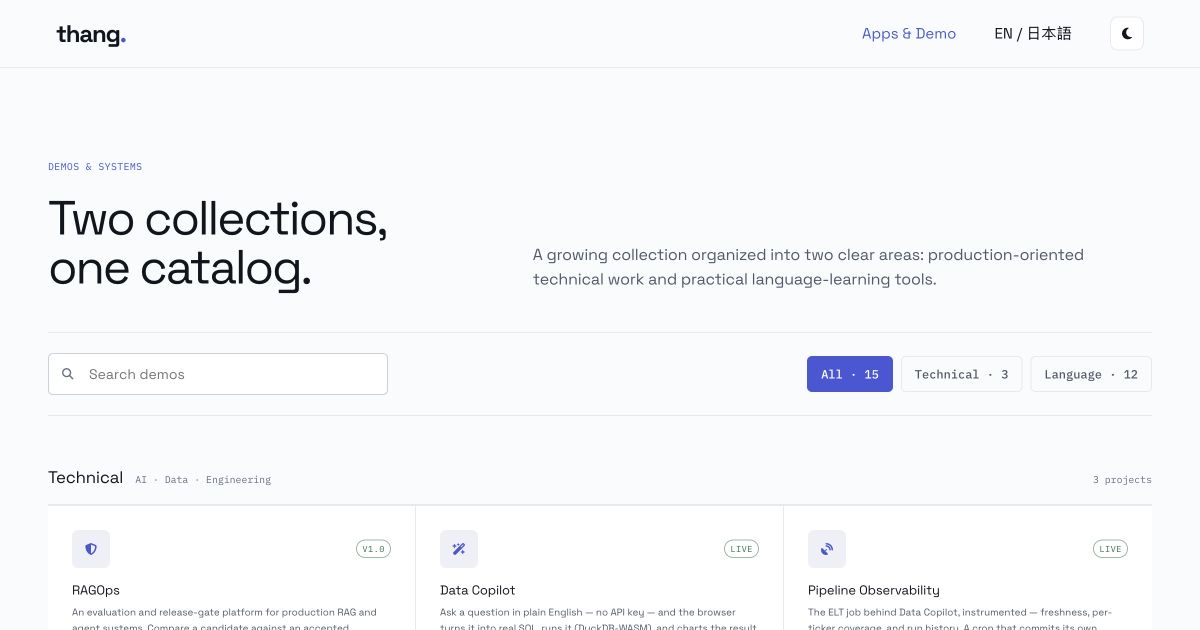
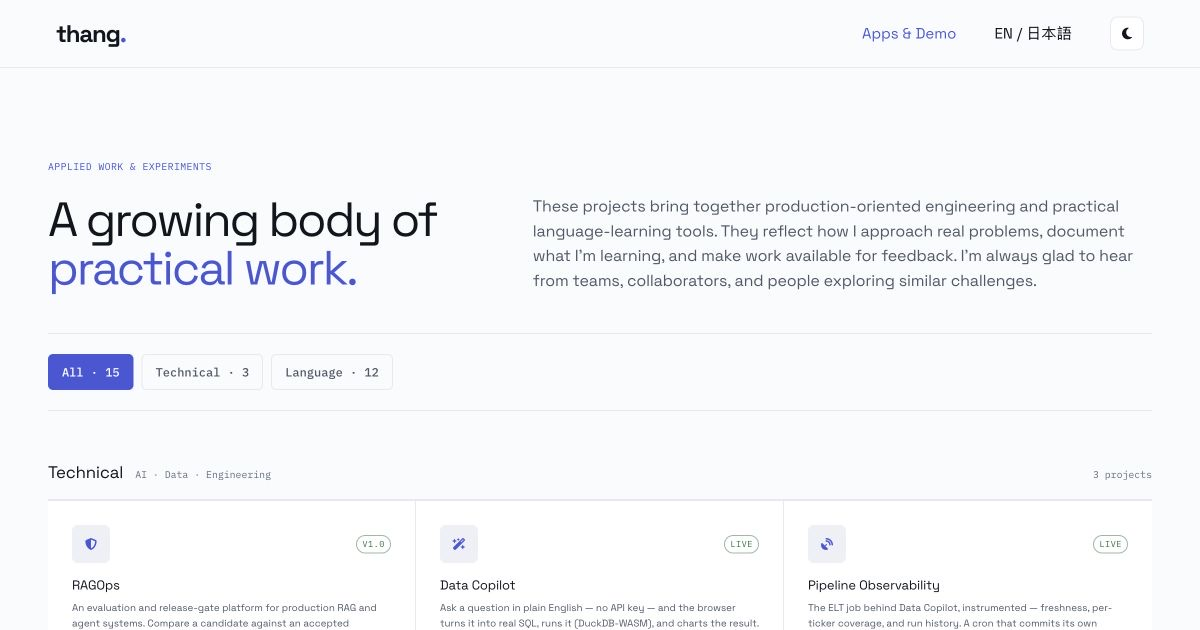
feat(site): refine portfolio narrative and app catalog [skip ci]

diff --git a/apps/index.html b/apps/index.html
@@ -4,11 +4,11 @@
   <meta charset="utf-8">
   <meta name="viewport" content="width=device-width, initial-scale=1.0">
   <title>Apps — thang.</title>
-  <meta name="description" content="Interactive demos and tools by Thang Luu — a browser-native data workbench, JLPT N1 study apps, and more. Each is a small, self-contained build.">
+  <meta name="description" content="A growing body of practical engineering systems and language-learning tools by Thang Luu, shared for feedback, collaboration, and continued learning.">
   <link rel="canonical" href="https://thangldw.github.io/apps/">
   <meta property="og:type" content="website">
   <meta property="og:title" content="Apps — Thang Luu">
-  <meta property="og:description" content="Browser-native data tools and a complete JLPT N1 study suite — 15 self-contained applications.">
+  <meta property="og:description" content="Practical engineering systems and language-learning tools, shared for feedback, collaboration, and continued learning.">
   <meta property="og:url" content="https://thangldw.github.io/apps/">
   <meta property="og:image" content="https://thangldw.github.io/assets/social-apps.jpg">
   <meta name="twitter:card" content="summary_large_image">
@@ -39,7 +39,7 @@
     .apps-main { padding-block: 64px 40px; }
     .apps-intro { max-width: none; margin-bottom: var(--space-xl); }
     .apps-intro .eyebrow { display: inline-flex; align-items: center; gap: .5em; color: var(--text-dim); font-family: var(--font-mono); font-size: var(--step--1); letter-spacing: .04em; text-transform: uppercase; }
-    .apps-intro h1 { font-family: var(--font-display); font-size: var(--step-4); line-height: 1.05; letter-spacing: -.02em; margin-top: var(--space-xs); }
+    .apps-intro h1 { font-family: var(--font-display); font-size: var(--step-4); line-height: 1.05; letter-spacing: -.02em; margin-top: var(--space-xs); }.apps-intro h1 em{color:var(--accent);font-style:normal}
     .apps-intro .lead { color: var(--text-muted); font-size: 13.5px; letter-spacing: -.01em; margin-top: var(--space-sm); white-space: nowrap; }
     .apps-intro .lead strong { color: var(--text); font-weight: 600; }
 
@@ -85,24 +85,23 @@
     .theme-button{display:grid;place-items:center;cursor:pointer}.ac-icon i{font-size:1rem}.sr-only{position:absolute;width:1px;height:1px;padding:0;margin:-1px;overflow:hidden;clip:rect(0,0,0,0);white-space:nowrap;border:0}
     .skip-link{position:fixed;left:12px;top:-60px;z-index:99;background:var(--ink);color:var(--bg);padding:10px}.skip-link:focus{top:12px}
     .wrap{width:min(1328px,calc(100% - 96px))}.apps-main{padding-top:54px}.apps-intro{display:grid;grid-template-columns:minmax(0,.8fr) minmax(360px,1.2fr);gap:72px;align-items:end;margin-bottom:40px}.apps-intro .eyebrow{grid-column:1/-1;margin-bottom:-52px}.apps-intro h1{font-size:clamp(42px,4vw,58px);line-height:1.02;letter-spacing:-.045em;margin:0}.apps-intro .lead{margin:0;white-space:normal;font-size:16px;line-height:1.55;max-width:720px}.apps-nav{height:68px;padding:0 56px}.apps-brand{font:700 24px var(--font-sans);letter-spacing:-.05em}.apps-brand span{display:none}.apps-nav nav{gap:38px;color:var(--ink);font-size:15px}.apps-nav nav a:first-child{color:var(--accent)}.theme-button{width:34px;height:34px;border-radius:8px;background:var(--surface)}
-    .catalog-controls{display:grid;grid-template-columns:minmax(240px,340px) 1fr;gap:22px;align-items:center;margin-bottom:36px;padding:20px 0;border-top:1px solid var(--border);border-bottom:1px solid var(--border)}.search-box{position:relative}.search-box i{position:absolute;left:14px;top:50%;transform:translateY(-50%);color:var(--muted)}.search-box input{width:100%;height:42px;padding:0 14px 0 40px;border:1px solid var(--border-strong);border-radius:5px;background:var(--surface);color:var(--ink);font:400 14px var(--font-sans)}.filters{margin:0;gap:8px;justify-content:flex-end}.filter{border-radius:5px;padding:9px 13px}.filter.active{background:var(--accent);border-color:var(--accent);color:#fff}
+    .catalog-controls{display:flex;align-items:center;margin-bottom:36px;padding:20px 0;border-top:1px solid var(--border);border-bottom:1px solid var(--border)}.filters{margin:0;gap:8px;justify-content:flex-start}.filter{border-radius:5px;padding:9px 13px}.filter.active{background:var(--accent);border-color:var(--accent);color:#fff}
     .apps-cat{margin-top:48px}.apps-cat-head{margin-bottom:0;padding:0 0 13px}.apps-grid{grid-template-columns:repeat(3,minmax(0,1fr));gap:0;border-bottom:1px solid var(--border)}.app-card{min-height:280px;padding:24px;border-radius:0;border-width:1px 1px 0 0}.app-card[hidden]{display:none}.app-card:nth-child(3n){border-right:0}.app-card .ac-icon{border-radius:6px}.app-card .ac-tags{margin-top:18px}.app-card .ac-tag{background:transparent}.app-card .ac-open{margin-top:20px}
-    @media(max-width:960px){.apps-intro{grid-template-columns:1fr;gap:20px}.apps-intro .eyebrow{grid-column:auto;margin-bottom:0}.catalog-controls{grid-template-columns:1fr}.filters{justify-content:flex-start}.apps-grid{grid-template-columns:repeat(2,minmax(0,1fr))}.app-card:nth-child(3n){border-right:1px solid var(--border)}.app-card:nth-child(2n){border-right:0}}
+    @media(max-width:960px){.apps-intro{grid-template-columns:1fr;gap:20px}.apps-intro .eyebrow{grid-column:auto;margin-bottom:0}.apps-grid{grid-template-columns:repeat(2,minmax(0,1fr))}.app-card:nth-child(3n){border-right:1px solid var(--border)}.app-card:nth-child(2n){border-right:0}}
     @media(max-width:640px){.apps-nav{height:65px;padding:0 16px}.apps-brand{font-size:22px}.apps-nav nav{gap:10px;font-size:13px}.apps-nav nav a{display:block}.theme-button{width:32px;height:32px}.wrap{width:calc(100% - 48px)}.apps-main{padding-top:40px}.apps-intro h1{font-size:40px}.catalog-controls{padding-top:16px}.filters{flex-wrap:nowrap;overflow-x:auto;padding-bottom:5px}.filter{flex:0 0 auto}.apps-grid{grid-template-columns:1fr}.app-card,.app-card:nth-child(3n){border-right:0;min-height:0}}
   </style>
 </head>
 <body>
-  <a class="skip-link" href="#main">Skip to demos</a>
+  <a class="skip-link" href="#main">Skip to apps</a>
   <header class="apps-nav"><a class="apps-brand" href="/">thang<b>.</b> <span>/ demos</span></a><nav><a href="/apps/" aria-current="page">Apps &amp; Demo</a><a href="/ja/">EN / 日本語</a><button class="theme-button" id="themeToggle" aria-label="Switch to light theme"><i class="fa-solid fa-sun" aria-hidden="true"></i></button></nav></header>
   <main class="wrap apps-main" id="main">
     <section class="apps-intro">
-      <span class="eyebrow">Demos &amp; systems</span>
-      <h1>Two collections,<br>one catalog.</h1>
-      <p class="lead">A growing collection organized into two clear areas: production-oriented technical work and practical language-learning tools.</p>
+      <span class="eyebrow">Applied work &amp; experiments</span>
+      <h1>A growing body of<br><em>practical work.</em></h1>
+      <p class="lead">These projects bring together production-oriented engineering and practical language-learning tools. They reflect how I approach real problems, document what I’m learning, and make work available for feedback. I’m always glad to hear from teams, collaborators, and people exploring similar challenges.</p>
     </section>
 
     <div class="catalog-controls">
-      <label class="search-box"><span class="sr-only">Search demos</span><i class="fa-solid fa-magnifying-glass" aria-hidden="true"></i><input id="appSearch" type="search" placeholder="Search demos" autocomplete="off"></label>
       <div class="filters" role="toolbar" aria-label="Filter apps"><button class="filter active" data-filter="all" aria-pressed="true">All · 15</button><button class="filter" data-filter="technical" aria-pressed="false">Technical · 3</button><button class="filter" data-filter="language" aria-pressed="false">Language · 12</button></div>
     </div>
     <p id="filterStatus" class="sr-only" aria-live="polite">Showing all 15 apps.</p>
@@ -121,8 +120,8 @@
           <h3>RAGOps</h3>
           <p>An evaluation and release-gate platform for production RAG and agent systems. Compare a candidate against an accepted baseline, detect quality and safety regressions, and produce auditable reports.</p>
           <div class="ac-tags"><span class="ac-tag">AI evaluation</span><span class="ac-tag">Red team</span><span class="ac-tag">FastAPI</span><span class="ac-tag">CI/CD</span></div>
-          <span class="ac-open">Read the case study</span>
-          <a class="ac-cover" href="/projects/ragops/" aria-label="Open the RAGOps case study"></a>
+          <span class="ac-open">Open RAGOps</span>
+          <a class="ac-cover" href="https://thangldw.github.io/ragops/" aria-label="Open the RAGOps showcase"></a>
         </article>
 
         <article class="app-card">
@@ -366,7 +365,6 @@
     (function () {
       var sections = [].slice.call(document.querySelectorAll('.apps-cat'));
       var buttons = [].slice.call(document.querySelectorAll('.filter'));
-      var search = document.getElementById('appSearch');
       var status = document.getElementById('filterStatus');
       var valid = buttons.map(function (button) { return button.dataset.filter; });
       var aliases = { data: 'technical', vocabulary: 'language', exam: 'language', grammar: 'language', reading: 'language' };
@@ -376,17 +374,14 @@
         var url = new URL(location.href);
         if (activeFilter === 'all') url.searchParams.delete('category');
         else url.searchParams.set('category', activeFilter);
-        var query = search.value.trim();
-        if (query) url.searchParams.set('q', query);
-        else url.searchParams.delete('q');
-        history[mode === 'push' ? 'pushState' : 'replaceState']({ category: activeFilter, q: query }, '', url);
+        url.searchParams.delete('q');
+        history[mode === 'push' ? 'pushState' : 'replaceState']({ category: activeFilter }, '', url);
       }
 
       function applyCatalog(filter, urlMode) {
         filter = aliases[filter] || filter;
         if (valid.indexOf(filter) < 0) filter = 'all';
         activeFilter = filter;
-        var query = search.value.trim().toLocaleLowerCase();
         var count = 0;
 
         buttons.forEach(function (button) {
@@ -399,31 +394,26 @@
           var categoryVisible = filter === 'all' || section.dataset.category === filter;
           var visibleInSection = 0;
           section.querySelectorAll('.app-card').forEach(function (card) {
-            var matches = !query || card.textContent.toLocaleLowerCase().indexOf(query) >= 0;
-            card.hidden = !categoryVisible || !matches;
+            card.hidden = !categoryVisible;
             if (!card.hidden) visibleInSection += 1;
           });
           section.hidden = !categoryVisible || visibleInSection === 0;
           count += visibleInSection;
         });
 
-        status.textContent = query ? 'Showing ' + count + ' demos matching “' + search.value.trim() + '”.' :
-          (filter === 'all' ? 'Showing all ' + count + ' demos.' : 'Showing ' + count + ' demos in ' + filter + '.');
+        status.textContent = filter === 'all' ? 'Showing all ' + count + ' apps.' : 'Showing ' + count + ' apps in ' + filter + '.';
         if (urlMode) syncUrl(urlMode);
       }
 
       buttons.forEach(function (button) {
         button.addEventListener('click', function () { applyCatalog(button.dataset.filter, 'push'); });
       });
-      search.addEventListener('input', function () { applyCatalog(activeFilter, 'replace'); });
       window.addEventListener('popstate', function () {
         var params = new URLSearchParams(location.search);
-        search.value = params.get('q') || '';
         applyCatalog(params.get('category') || 'all', null);
       });
 
       var params = new URLSearchParams(location.search);
-      search.value = params.get('q') || '';
       applyCatalog(params.get('category') || 'all', null);
 
       var themeButton = document.getElementById('themeToggle');

diff --git a/css/styles.css b/css/styles.css
@@ -118,32 +118,33 @@
 .resume-home .resume-kicker{margin:0;color:var(--accent);font:600 12px/1.4 var(--font-mono);letter-spacing:.04em;text-transform:uppercase}
 .resume-home .resume-profile{padding:54px 56px 44px;border-right:1px solid var(--border)}
 .resume-home .resume-profile>h1{margin:0 0 8px;font-size:48px;line-height:1;letter-spacing:-.05em}
-.resume-home .resume-location{display:flex;align-items:center;gap:9px;margin:0;color:var(--body);font-size:14px}
 .resume-home .profile-section{margin-top:40px;padding-top:28px;border-top:1px solid var(--border)}
 .resume-home .profile-section>h2{margin:0 0 23px;color:var(--muted);font:500 12px var(--font-mono);letter-spacing:.04em;text-transform:uppercase}
 .resume-home .profile-section article+article{margin-top:22px}
 .resume-home .profile-section article h3{margin:0 0 6px;font-size:15px;font-weight:500}
 .resume-home .profile-section article p{margin:0;color:var(--body);font-size:13px;line-height:1.5}
 .resume-home .profile-languages p{display:flex;align-items:center;gap:12px;margin:10px 0;font-size:14px}
-.resume-home .profile-languages p i{color:#f27a2b;font-size:8px}.resume-home .profile-languages p:nth-of-type(even) i{color:var(--accent)}
+.resume-home .profile-languages p i{color:var(--accent);font-size:6px;opacity:.82}
 .resume-home .profile-connect a{display:flex;align-items:center;justify-content:space-between;padding:10px 0;border-bottom:1px solid var(--border);font-size:13px}
 .resume-home .profile-connect a span{display:flex;align-items:center;gap:14px}.resume-home .profile-connect a span i{width:16px;color:var(--strong)}
 .resume-home .profile-connect a>i{font-size:11px}
-.resume-home .availability{display:flex;align-items:center;gap:10px;margin:30px 0 0;color:var(--accent);font-size:12px}.resume-home .availability i{font-size:8px}
+.resume-home .availability{display:flex;align-items:center;gap:10px;margin:14px 0 0;color:var(--accent);font-size:12px;line-height:1.4}.resume-home .availability i{font-size:7px}
 .resume-home .resume-content{min-width:0;padding:42px 56px 30px}
 .resume-home .about-overview{margin-top:16px}
 .resume-home .about-intro>h2{margin:0;font-size:clamp(42px,3.8vw,58px);line-height:1.02;letter-spacing:-.055em;font-weight:600}
 .resume-home .about-intro>h2 em{color:var(--accent);font-style:normal}
 .resume-home .about-lead{max-width:690px;margin:20px 0 0;color:var(--body);font-size:14px;line-height:1.55}
+.resume-home .about-open{max-width:820px;margin:11px 0 0;color:var(--body);font-size:13px;line-height:1.55}
 .resume-home .about-principles{display:grid;grid-template-columns:repeat(3,minmax(0,1fr));gap:20px;margin-top:23px;padding-top:18px;border-top:1px solid var(--border)}
 .resume-home .about-principles p{margin:0;color:var(--body);font-size:11.5px;line-height:1.45}
 .resume-home .about-principles span{display:block;margin-bottom:6px;color:var(--strong);font:600 10px/1.35 var(--font-mono);letter-spacing:.035em;text-transform:uppercase}
 .resume-home .resume-method{margin-top:24px;padding:24px 0 26px;border-top:1px solid var(--border);border-bottom:1px solid var(--border)}
-.resume-home .method-grid{display:grid;grid-template-columns:repeat(3,minmax(0,1fr));margin-top:18px}
-.resume-home .method-grid article{padding:0 34px;border-right:1px solid var(--border)}.resume-home .method-grid article:first-child{padding-left:0}.resume-home .method-grid article:last-child{padding-right:0;border-right:0}
+.resume-home .method-grid{display:grid;grid-template-columns:repeat(4,minmax(0,1fr));margin-top:18px}
+.resume-home .method-grid article{padding:0 24px;border-right:1px solid var(--border)}.resume-home .method-grid article:first-child{padding-left:0}.resume-home .method-grid article:last-child{padding-right:0;border-right:0}
 .resume-home .method-grid article>i{color:var(--accent);font-size:25px}.resume-home .method-grid article:nth-child(2)>i{color:#f27a2b}
 .resume-home .method-number{margin:15px 0 7px!important;color:var(--accent)!important;font:600 11px var(--font-mono)!important;text-transform:uppercase}
 .resume-home .method-grid h3{margin:0 0 6px;font-size:17px;letter-spacing:-.02em}.resume-home .method-grid article>p{margin:0;color:var(--body);font-size:12.5px;line-height:1.45}
+.resume-home .method-grid .method-title{display:flex;align-items:baseline;gap:7px;margin:14px 0 7px;font-size:clamp(14px,1.25vw,17px);white-space:nowrap}.resume-home .method-title span{flex:0 0 auto;color:var(--accent);font:600 10.5px/1 var(--font-mono);letter-spacing:.02em}
 .resume-home .method-grid ul{margin:8px 0 0;padding:0;list-style:none}.resume-home .method-grid li{position:relative;margin:4px 0;padding-left:18px;color:var(--strong);font-size:11.5px}.resume-home .method-grid li::before{content:"";position:absolute;left:2px;top:.55em;width:5px;height:5px;border-radius:50%;background:#f27a2b}
 .resume-home .resume-projects{padding-top:22px}.resume-home .projects-heading{display:flex;align-items:center;justify-content:space-between;margin-bottom:12px}.resume-home .projects-heading a{display:inline-flex;align-items:center;gap:10px;color:var(--accent);font-size:12px}
 .resume-home .project-row{display:grid;grid-template-columns:180px repeat(3,minmax(0,1fr));border-top:1px solid var(--border)}.resume-home .project-row:last-child{border-bottom:1px solid var(--border)}
@@ -154,16 +155,16 @@
 @media(max-width:1100px){
   .resume-home .resume-layout{grid-template-columns:280px minmax(0,1fr)}
   .resume-home .resume-profile{padding-inline:34px}.resume-home .resume-content{padding-inline:38px}
-  .resume-home .about-principles{gap:14px}.resume-home .method-grid article{padding-inline:22px}
+  .resume-home .about-principles{gap:14px}.resume-home .method-grid{grid-template-columns:repeat(2,minmax(0,1fr));row-gap:24px}.resume-home .method-grid article{padding:0 24px}.resume-home .method-grid article:first-child{padding-left:0}.resume-home .method-grid article:nth-child(2){padding-right:0;border-right:0}.resume-home .method-grid article:nth-child(3){padding:24px 24px 0 0;border-top:1px solid var(--border)}.resume-home .method-grid article:nth-child(4){padding:24px 0 0 24px;border-top:1px solid var(--border);border-right:0}
   .resume-home .project-row{grid-template-columns:150px repeat(3,minmax(0,1fr))}.resume-home .project-group,.resume-home .resume-project{padding-inline:14px}.resume-home .resume-project{padding-right:30px}
 }
 @media(max-width:780px){
   .resume-home .resume-layout{grid-template-columns:1fr}
   .resume-home .resume-profile{display:grid;grid-template-columns:1fr 1fr;gap:22px 30px;padding:38px var(--home-pad);border-right:0;border-bottom:1px solid var(--border)}
-  .resume-home .resume-profile>h1,.resume-home .resume-location{grid-column:1/-1}.resume-home .resume-profile>h1{margin-block:0}
+  .resume-home .resume-profile>h1{grid-column:1/-1;margin-block:0}
   .resume-home .profile-section{margin:0;padding-top:18px}.resume-home .profile-section article+article{margin-top:14px}.resume-home .profile-connect{grid-column:1/-1}.resume-home .availability{grid-column:1/-1;margin:0}
   .resume-home .resume-content{padding:40px var(--home-pad)}.resume-home .about-intro>h2 br{display:none}.resume-home .about-principles{gap:18px}
-  .resume-home .method-grid{grid-template-columns:1fr;gap:26px}.resume-home .method-grid article,.resume-home .method-grid article:first-child,.resume-home .method-grid article:last-child{padding:0 0 24px;border-right:0;border-bottom:1px solid var(--border)}.resume-home .method-grid article:last-child{padding-bottom:0;border-bottom:0}
+  .resume-home .method-grid{grid-template-columns:1fr;gap:26px}.resume-home .method-grid article,.resume-home .method-grid article:first-child,.resume-home .method-grid article:nth-child(2),.resume-home .method-grid article:nth-child(3),.resume-home .method-grid article:nth-child(4),.resume-home .method-grid article:last-child{padding:0 0 24px;border-top:0;border-right:0;border-bottom:1px solid var(--border)}.resume-home .method-grid article:last-child{padding-bottom:0;border-bottom:0}
   .resume-home .project-row{grid-template-columns:1fr}.resume-home .project-group,.resume-home .resume-project{border-right:0;border-bottom:1px solid var(--border);padding:17px 0}.resume-home .resume-project{padding-right:30px}.resume-home .project-row:last-child{border-bottom:0}
 }
 @media(max-width:480px){

diff --git a/index.html b/index.html
@@ -4,11 +4,11 @@
   <meta charset="utf-8">
   <meta name="viewport" content="width=device-width,initial-scale=1">
   <title>Thang Luu — Forward Deployed Engineer</title>
-  <meta name="description" content="Online resume of Thang Luu, a Tokyo-based Forward Deployed Engineer, Data & AI Engineer, and Technical Lead.">
+  <meta name="description" content="Online resume of Thang Luu, a Forward Deployed Engineer, Data & AI Engineer, and Technical Lead.">
   <link rel="canonical" href="https://thangldw.github.io/">
   <meta property="og:type" content="website">
   <meta property="og:title" content="Thang Luu — Forward Deployed Engineer">
-  <meta property="og:description" content="I build systems and tools that teams rely on.">
+  <meta property="og:description" content="I help teams turn ambiguity into dependable systems.">
   <meta property="og:url" content="https://thangldw.github.io/">
   <meta property="og:image" content="https://thangldw.github.io/assets/social-home.jpg">
   <meta name="twitter:card" content="summary_large_image">
@@ -19,7 +19,7 @@
   <link href="https://use.fontawesome.com/releases/v6.4.2/css/all.css" rel="stylesheet">
   <link rel="stylesheet" href="css/reset.css">
   <link rel="stylesheet" href="css/tokens.css?v=20260713e">
-  <link rel="stylesheet" href="css/styles.css?v=20260714a">
+  <link rel="stylesheet" href="css/styles.css?v=20260714b">
   <script>document.documentElement.dataset.theme=localStorage.theme||(matchMedia('(prefers-color-scheme:dark)').matches?'dark':'light')</script>
 </head>
 <body class="home-v2 resume-home">
@@ -37,7 +37,7 @@
   <main id="main" class="resume-layout">
     <aside class="resume-profile" aria-labelledby="profileName">
       <h1 id="profileName">Thang Luu</h1>
-      <p class="resume-location"><i class="fa-solid fa-location-dot" aria-hidden="true"></i> Tokyo, Japan</p>
+      <p class="availability"><i class="fa-solid fa-circle" aria-hidden="true"></i> Ready to contribute and keep learning</p>
 
       <section class="profile-section" aria-labelledby="rolesTitle">
         <h2 id="rolesTitle">What I do</h2>
@@ -47,7 +47,7 @@
       </section>
 
       <section class="profile-section profile-languages" aria-labelledby="languagesTitle">
-        <h2 id="languagesTitle">Working languages</h2>
+        <h2 id="languagesTitle">Languages</h2>
         <p><i class="fa-solid fa-circle" aria-hidden="true"></i> English</p>
         <p><i class="fa-solid fa-circle" aria-hidden="true"></i> 日本語</p>
         <p><i class="fa-solid fa-circle" aria-hidden="true"></i> Tiếng Việt</p>
@@ -55,12 +55,11 @@
       </section>
 
       <section class="profile-section profile-connect" aria-labelledby="connectTitle">
-        <h2 id="connectTitle">Let’s connect</h2>
+        <h2 id="connectTitle">Open to opportunities</h2>
         <a href="mailto:thangldw@gmail.com"><span><i class="fa-regular fa-envelope" aria-hidden="true"></i>Email</span><i class="fa-solid fa-arrow-right" aria-hidden="true"></i></a>
         <a href="https://www.linkedin.com/in/thangldw" target="_blank" rel="noopener noreferrer"><span><i class="fa-brands fa-linkedin-in" aria-hidden="true"></i>LinkedIn</span><i class="fa-solid fa-arrow-right" aria-hidden="true"></i></a>
         <a href="https://github.com/thangldw" target="_blank" rel="noopener noreferrer"><span><i class="fa-brands fa-github" aria-hidden="true"></i>GitHub</span><i class="fa-solid fa-arrow-right" aria-hidden="true"></i></a>
       </section>
-      <p class="availability"><i class="fa-solid fa-circle" aria-hidden="true"></i> Open to impactful opportunities</p>
     </aside>
 
     <div class="resume-content">
@@ -68,12 +67,13 @@
         <p class="resume-kicker">About</p>
         <div class="about-overview">
           <div class="about-intro">
-            <h2 id="aboutTitle">I build <em>systems and tools</em> <br>that teams rely on.</h2>
-            <p class="about-lead">I’m Thang Luu — a Tokyo-based Forward Deployed Engineer, Data &amp; AI Engineer, and Technical Lead. I embed with teams to turn ambiguous problems into production systems they trust.</p>
+            <h2 id="aboutTitle">I help teams turn <em>ambiguity</em> <br>into dependable systems.</h2>
+            <p class="about-lead">I’m Thang Luu, a data-driven problem solver working at the intersection of engineering and business. Over the past 10+ years, I’ve grown from statistical analysis into data engineering and technical delivery, and I now lead front-line technical delivery at a global IT consulting firm.</p>
+            <p class="about-open">I do my best work when the goal is still taking shape, the data is fragmented, and a team needs a practical path forward. I still consider myself a learner in this field—the people I build with continue to teach me the most.</p>
             <div class="about-principles">
-              <p><span>Across industries</span>Retail, real estate, fintech, healthcare, and research.</p>
-              <p><span>End-to-end delivery</span>From problem framing and prototypes to production rollout and team enablement.</p>
-              <p><span>Built to last</span>Useful, understandable tools that teams can own and extend.</p>
+              <p><span>Experience across sectors</span>Retail, real estate, fintech, healthcare, and research.</p>
+              <p><span>End-to-end contribution</span>Discovery, architecture, pipelines, models, delivery leadership, and stakeholder alignment.</p>
+              <p><span>Open to collaboration</span>Roles and partnerships where I can contribute, keep learning, and help teams build systems they can own.</p>
             </div>
           </div>
         </div>
@@ -82,9 +82,10 @@
       <section class="resume-method" aria-labelledby="methodTitle">
         <p class="resume-kicker" id="methodTitle">How I work</p>
         <div class="method-grid">
-          <article><i class="fa-solid fa-database" aria-hidden="true"></i><p class="method-number">01_Embed</p><h3>Embed with teams</h3><p>I join your context, understand the problem space, and align on outcomes that matter.</p><ul><li>Rapid discovery</li><li>Clear problem framing</li><li>Outcome-aligned roadmaps</li></ul></article>
-          <article><i class="fa-solid fa-book-open" aria-hidden="true"></i><p class="method-number">02_Build</p><h3>Build production systems</h3><p>I design and ship reliable systems that solve real problems and scale.</p><ul><li>Practical architecture</li><li>Observability by default</li><li>Quality, safety, and tests</li></ul></article>
-          <article><i class="fa-solid fa-table-cells-large" aria-hidden="true"></i><p class="method-number">03_Enable</p><h3>Enable people to own &amp; extend</h3><p>I document, teach, and build interfaces so teams can adopt and grow what we ship.</p><ul><li>Clear docs &amp; demos</li><li>Reusable tools &amp; templates</li><li>Knowledge transfer &amp; training</li></ul></article>
+          <article><i class="fa-solid fa-database" aria-hidden="true"></i><h3 class="method-title"><span>01_</span>Embed with teams</h3><p>I join your context, understand the problem space, and align on outcomes that matter.</p><ul><li>Rapid discovery</li><li>Clear problem framing</li><li>Outcome-aligned roadmaps</li></ul></article>
+          <article><i class="fa-solid fa-book-open" aria-hidden="true"></i><h3 class="method-title"><span>02_</span>Build for production</h3><p>I design and ship reliable systems that solve real problems and scale.</p><ul><li>Practical architecture</li><li>Observability by default</li><li>Quality, safety, and tests</li></ul></article>
+          <article><i class="fa-solid fa-table-cells-large" aria-hidden="true"></i><h3 class="method-title"><span>03_</span>Enable ownership</h3><p>I document, teach, and build interfaces so teams can adopt and grow what we ship.</p><ul><li>Clear docs &amp; demos</li><li>Reusable tools &amp; templates</li><li>Knowledge transfer &amp; training</li></ul></article>
+          <article><i class="fa-solid fa-chart-line" aria-hidden="true"></i><h3 class="method-title"><span>04_</span>Measure &amp; improve</h3><p>I use outcomes, feedback, and operational signals to refine what we ship.</p><ul><li>Outcome tracking</li><li>Feedback loops</li><li>Iterative improvement</li></ul></article>
         </div>
       </section>
 

diff --git a/design-qa.md b/design-qa.md
@@ -1,47 +1,52 @@
-# Design QA — About hierarchy and resume-label refinement
+# Design QA — Professional resume copy and catalog refinement
 
 - Original visual direction: `/Users/thang/Documents/thangldw.github.io/audit/resume-v3/source-option-3.png`
 - User annotation truth: `/Users/thang/Documents/thangldw.github.io/audit/resume-v3/user-about-annotation.png`
-- Same-viewport baseline: `/Users/thang/Documents/thangldw.github.io/audit/resume-v3/about-before.png`
-- Implementation screenshot: `/Users/thang/Documents/thangldw.github.io/audit/resume-v3/about-annotation-desktop.png`
-- Full-view comparison evidence: `/Users/thang/Documents/thangldw.github.io/audit/resume-v3/about-annotation-comparison-full.jpg`
-- Focused comparison evidence: `/Users/thang/Documents/thangldw.github.io/audit/resume-v3/about-annotation-comparison-focused.jpg`
-- Mobile evidence: `/Users/thang/Documents/thangldw.github.io/audit/resume-v3/about-annotation-mobile-390.png`
-- Viewport: 1440 × 1024 desktop; 390 × 844 mobile
-- State: home page, light theme
+- Home baseline: `/Users/thang/Documents/thangldw.github.io/audit/resume-v3/about-before.png`
+- Home implementation: `/Users/thang/Documents/thangldw.github.io/audit/resume-v3/home-four-step-final-desktop.png`
+- Home comparison: `/Users/thang/Documents/thangldw.github.io/audit/resume-v3/home-v302-comparison.jpg`
+- Apps baseline: `/Users/thang/Documents/thangldw.github.io/audit/resume-v3/apps-two-groups-desktop.png`
+- Apps implementation: `/Users/thang/Documents/thangldw.github.io/audit/resume-v3/apps-copy-no-search-desktop.png`
+- Apps comparison: `/Users/thang/Documents/thangldw.github.io/audit/resume-v3/apps-copy-comparison.jpg`
+- Responsive evidence: `/Users/thang/Documents/thangldw.github.io/audit/resume-v3/home-four-step-laptop-1024.png`, `/Users/thang/Documents/thangldw.github.io/audit/resume-v3/home-four-step-final-mobile-390.png`, and `/Users/thang/Documents/thangldw.github.io/audit/resume-v3/apps-copy-no-search-mobile-390.png`
+- Viewports: 1440 × 1024 desktop, 1024 × 900 laptop, and 390 × 844 mobile
+- State: light theme; Home default; Apps All, Technical, and Language filters
 
 ## Findings
 
 - No remaining P0, P1, or P2 issues.
-- The duplicated `Split profile resume` kicker and six-tag profile row were removed as annotated.
-- The sidebar labels now read `What I Do` and `Working Languages`; the project heading now reads `Selected Work`, which is clearer and more portfolio-appropriate than `Roles`, `Languages`, and `Past Projects`.
-- The language list contains English, 日本語, Tiếng Việt, and 中文 without inventing proficiency levels.
-- The About section now uses one narrative flow plus three non-duplicative dimensions: industries, delivery scope, and maintainability.
+- Home no longer exposes location information or duplicated profile tags. `Languages`, `Open to Opportunities`, and the relocated learner-first availability statement form a clearer sidebar hierarchy.
+- About uses evidence from the earlier portfolio: 10+ years across statistical analysis, data engineering, and technical delivery; cross-sector experience; current front-line delivery leadership; and a clear learner/collaborator stance.
+- `How I Work` now covers Embed, Build, Enable, and Measure/Improve. All four numbered titles render as single-line phrases at 1440px, 1024px, and 390px.
+- Apps removes the unused search path and replaces catalog-first copy with a professional description of applied work, feedback, and collaboration. Technical and Language remain durable top-level filters.
+- The RAGOps card now says `Open RAGOps` and points directly to `https://thangldw.github.io/ragops/`.
 
 ## Required fidelity surfaces
 
-- Fonts and typography: existing Space Grotesk and IBM Plex Mono hierarchy is preserved. The mobile headline was reduced to 36px and its hidden line-break whitespace was corrected so words never merge.
-- Spacing and layout rhythm: removing the repeated tags reduces the About height while keeping `How I Work` and both selected-work rows visible in the desktop viewport. Sidebar dividers and section rhythm remain aligned.
-- Colors and visual tokens: existing neutral surfaces, indigo accent, orange secondary accent, and light/dark tokens are unchanged.
-- Image quality and asset fidelity: this screen uses no photographic assets; Font Awesome icons remain sharp and consistent with the selected direction.
-- Copy and content: all repeated role/location/language tags were removed. Added copy describes delivery scope and working principles already supported by the resume content.
+- Fonts and typography: Space Grotesk and IBM Plex Mono remain consistent. The revised headline retains the selected concept's two-line scale and accent treatment. All method titles avoid wrapping at tested breakpoints.
+- Spacing and layout rhythm: Home uses four equal method columns on desktop, a 2×2 laptop grid, and a single mobile column. Apps gains a cleaner filter-only control row after search removal.
+- Colors and visual tokens: the established neutral, indigo, and orange system is unchanged. Language bullets use one subtle indigo because they do not represent different semantic categories.
+- Image quality and asset fidelity: no photographic assets are required; Font Awesome provides all interface icons. Social previews are real 1200 × 630 browser captures.
+- Copy and content: new claims are grounded in prior portfolio copy. The tone emphasizes contribution, learning, team ownership, feedback, and collaboration without inventing outcomes or proficiency levels.
 
 ## Interaction and implementation checks
 
-- Desktop and 390px mobile render without horizontal overflow.
-- Theme and navigation implementation were not changed.
+- Home: four method items; all titles one line; no location text; no horizontal overflow at 1440px, 1024px, or 390px.
+- Apps: no search control; All shows 15, Technical shows 3, and Language shows 12; filter URL state and legacy category aliases remain supported.
+- RAGOps accessible link target: `https://thangldw.github.io/ragops/`.
 - Browser console errors: none.
-- Static validation: all 32 HTML pages, 10 redirects, 18 sitemap URLs, social metadata, and local references pass.
+- Static validation covers 32 HTML pages, 10 redirects, 18 sitemap URLs, social metadata, and all local references.
 
 ## Comparison history
 
-1. Baseline annotation: the top profile kicker and horizontal tag row duplicated sidebar content; generic section labels did not communicate portfolio intent.
-2. Draft pass: replaced the tag row with a profile snapshot, then rejected it because it still repeated sidebar information.
-3. Final fix: removed the duplicate snapshot entirely, kept only non-duplicative About context, renamed the three annotated headings, and expanded the working-language list.
-4. Post-fix evidence: the same 1440 × 1024 comparison shows clearer hierarchy, lower density, and no layout regression. Mobile verification confirms no overflow or merged headline text.
+1. Baseline: repeated location/role/language tags, generic headings, three-stage working method, catalog-first Apps copy, and an unnecessary search field.
+2. Draft: introduced a profile snapshot, then removed it after recognizing that it repeated sidebar information.
+3. Refinement: removed location, unified language markers, relocated the opportunity status, rewrote About from prior portfolio evidence, and combined each numbered method title into one line.
+4. Final iteration: added `04_Measure & improve`, shortened method labels to hold a single line, rewrote Apps around practical work and collaboration, removed search and its query-state code, and corrected the RAGOps destination.
+5. Post-fix evidence: desktop, laptop, and mobile browser captures show no overflow; filter counts, URL state, and console checks pass.
 
 ## Follow-up polish
 
-- No P3 follow-up is required for the annotated scope.
+- No P3 follow-up is required for the current scope.
 
 final result: passed

diff --git a/audit/release-2026-07-13/audit-report.md b/audit/release-2026-07-13/audit-report.md
@@ -23,6 +23,7 @@ The documented release backlog is complete. Pipeline history persists, long voca
 13. Global navigation now follows one compact standard on Home, Apps, Japanese, RAGOps, and every demo route: `Apps & Demo`, `EN / 日本語`, and the theme control. The former Demos, Collections, Notes, About, and Contact header links were removed. Desktop and 320px checks passed without overflow or console errors.
 14. Home now operates as a split-profile online resume with a professional summary, role profile, Embed/Build/Enable working method, and compact Past Projects index. Apps now has exactly two top-level collections: Technical (3) and Language (12). Search, accessible filters, new category URLs, and legacy category aliases passed desktop/mobile checks with zero console errors.
 15. Annotated Home feedback is implemented: the duplicated profile kicker and horizontal tags were removed; `Roles`, `Languages`, and `Past Projects` became `What I Do`, `Working Languages`, and `Selected Work`; Tiếng Việt and 中文 were added. About now carries only non-duplicative industry, delivery, and maintainability context. Desktop/mobile checks passed without overflow or console errors.
+16. Home copy now draws on the earlier Japanese portfolio narrative: 10+ years across data analysis, engineering, and technical delivery; a learner-first collaboration stance; and openness to roles and partnerships. `How I Work` now adds `04_Measure & improve`, with all four titles kept to one line. Apps now presents a growing body of practical work, removes the search control, retains its three shareable filters, and routes RAGOps directly to `https://thangldw.github.io/ragops/`. Desktop, laptop, and mobile checks passed without overflow or console errors.
 
 ## Screenshots
 
@@ -43,6 +44,10 @@ The documented release backlog is complete. Pipeline history persists, long voca
 ![Technical and Language collections](../resume-v3/apps-two-groups-desktop.png)
 
 ![Annotated About refinement](../resume-v3/about-annotation-comparison-full.jpg)
+
+![Final Home refinements](../resume-v3/home-v302-comparison.jpg)
+
+![Apps copy and catalog refinement](../resume-v3/apps-copy-comparison.jpg)
 
 ## Evidence limits
 

diff --git a/NEXT-STEPS.md b/NEXT-STEPS.md
@@ -50,6 +50,7 @@ Updated: 2026-07-13
 
 ## Post-release improvements
 
+- [x] Rewrite Home and Apps copy from prior portfolio evidence with a professional, collaborative tone; expand How I Work to four stages, remove Apps search, and route RAGOps directly to its showcase.
 - [x] Refine the Home resume from annotated feedback: remove duplicated profile labels/tags, rename the sidebar and project headings, expand working languages, and reorganize About around non-duplicative delivery context.
 - [x] Rebuild Home as a split-profile online resume with About, Roles, How I Work, and a concise Past Projects index based on the selected option 3 concept.
 - [x] Consolidate the Apps catalog into two primary collections: Technical (3 projects) and Language (12 Japanese-learning apps), while preserving search, URL state, and legacy category links.
